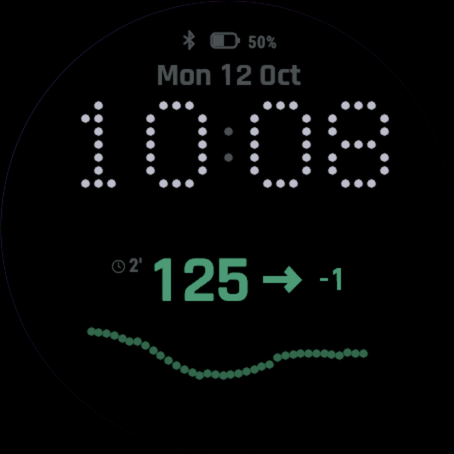
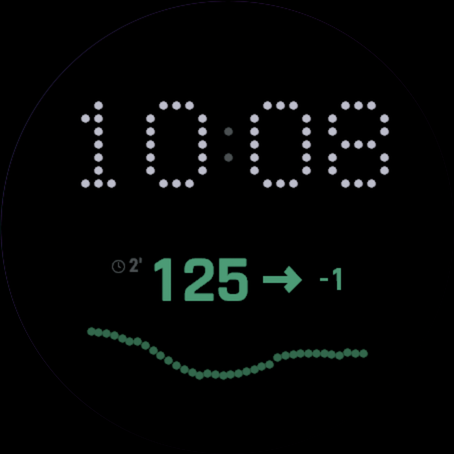
feat: drop the status row and date from always-on (#3)
Always-on now shows only the time, glucose and graph, down to under 8% lit pixels.

Changed region(s): [[0.4626, 0.0617, 0.6784, 0.185], [0.3392, 0.1233, 0.4626, 0.185], [0.4009, 0.0617, 0.4317, 0.1233]]

diff --git a/CONTRIBUTING.md b/CONTRIBUTING.md
@@ -78,7 +78,7 @@ Credits: the xDrip+ Local Web Services documentation, and the setup notes in swi
 
 Colour only ever means glucose; everything else is white or grey. Vertical spacing follows the time's 13 px dot pitch, with extra room around the large glucose digits. All colours live in `Palette` in `source/CgmModel.mc`.
 
-**Always-on** keeps the date, the time as smaller dots, the glucose row and a taller, narrower graph, centred in the space below the time. Data fields, heart rate and the divider are hidden, and the face shifts a few pixels each minute against burn-in; the graph's corners clear the round edge at every shift. It measures about 7% lit pixels in the simulator, within the AMOLED budget of about 10%.
+**Always-on** keeps only the time as smaller dots, the glucose row and a taller, narrower graph, centred in the space below the time. The status row, date, data fields, heart rate and the divider are hidden, and the face shifts a few pixels each minute against burn-in; the graph's corners clear the round edge at every shift. It measures under 8% lit pixels in the simulator, within the AMOLED budget of about 10%.
 
 ### Screen sizes
 
